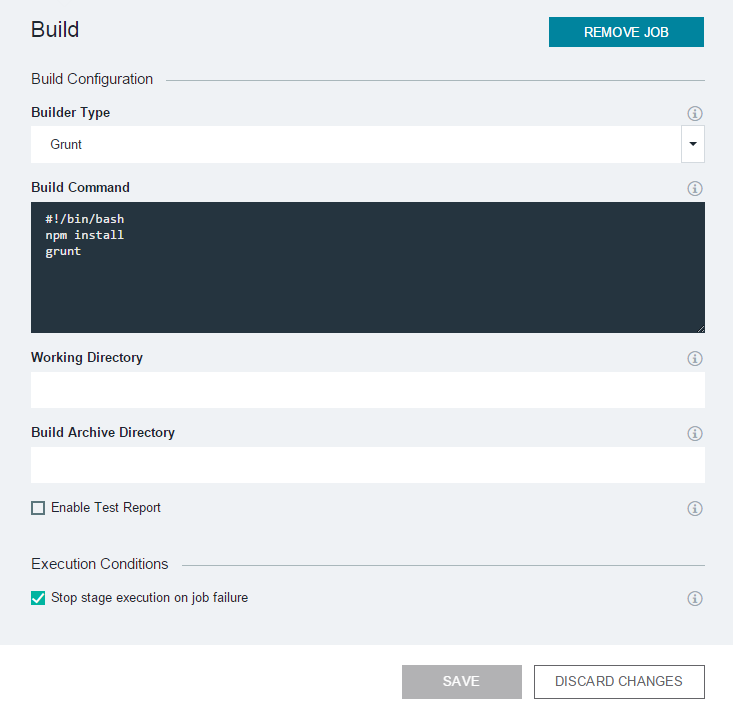
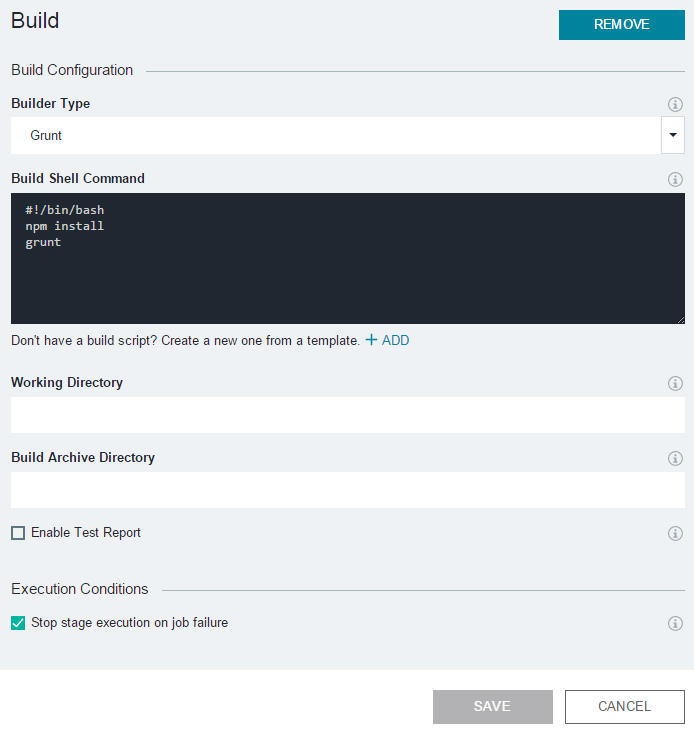
Fixing outdated images and text, as well as a broken link, in DOW. Defect 40843.

diff --git a/tutorials/devopsweb/index.md b/tutorials/devopsweb/index.md
@@ -1,6 +1,6 @@
 #Clone, edit, and deploy an app from Bluemix
 
-Last modified: 8 July 2015
+Last modified: 17 July 2015
 
 Time: 60 minutes 
 
@@ -162,7 +162,7 @@ margin-bottom: 0px;"> and then click **Configure Stage**.
     * Because the `app.js` file is located in the root of the project, you do not have to specify a working directory or a build archive directory.
     * If the build does not complete successfully, the stage stops running and any later jobs do not run.
 
-  c. Because you did not make any changes, click **DISCARD CHANGES** to return to the Build & Deploy Pipeline page.
+  c. Because you did not make any changes, click **CANCEL** to return to the Build & Deploy Pipeline page.
 
 ![A configured builder stage][8]
 
@@ -184,7 +184,7 @@ margin-bottom: 0px;"> and then click **Configure Stage**.
   * The app is set to deploy to your Bluemix organization and space.
   * Bluemix is based on Cloud Foundry, so the deployment script uses the Cloud Foundry command-line interface command `cf push` to deploy your app. To learn more about configuring deployment scripts when using Cloud Foundry, [see the Cloud Foundry documentation][29]. 
 
-c. Because you did not make any changes, click **DISCARD CHANGES** to return to the Build & Deploy Pipeline page.
+c. Because you did not make any changes, click **CANCEL** to return to the Build & Deploy Pipeline page.
 
 ![A configured deployer stage][9]
 
@@ -260,7 +260,7 @@ Now that you know the basics, you might want to explore this information:
 [24]: http://docs.cloudfoundry.org/devguide/installcf/whats-new-v6.html
 [26]: https://www.ng.bluemix.net/docs/#services/DeliveryPipeline/index.html#getstartwithCD
 [27]: http://sentiment-ua.mybluemix.net/
-[28]: https://www.ng.bluemix.net/docs/#manageapps/index.html#manageapps
+[28]: https://www.ng.bluemix.net/docs/manageapps/manageapps.html
 [29]: http://docs.cloudfoundry.org/devguide/installcf/whats-new-v6.html#push
 [30]: https://hub.jazz.net/register
 [31]: https://jazz.net/action/register
